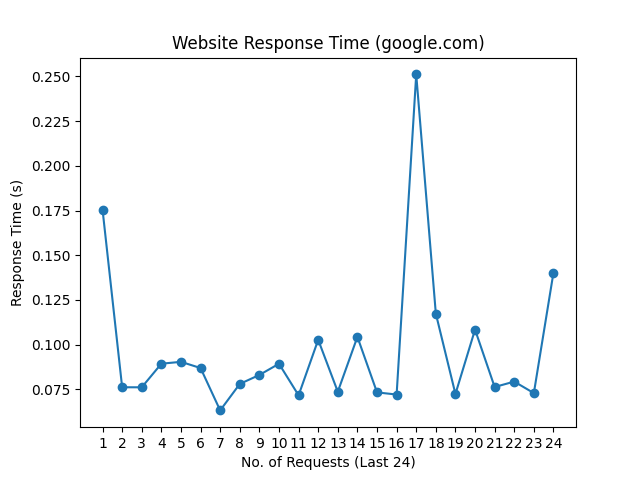
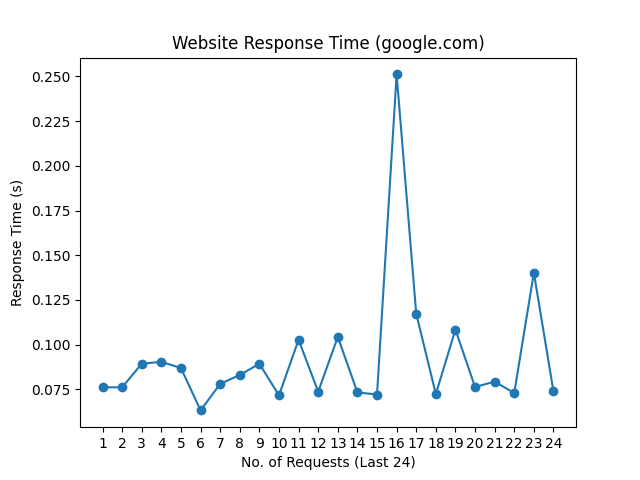
update README.md, history and graph

Changed region(s): [[0.1562, 0.125, 0.875, 0.875], [0.1562, 0.4062, 0.1875, 0.75]]

diff --git a/README.md b/README.md
@@ -1,10 +1,10 @@
 # Web Monitoring
 
-Last Checked: 05/10/2024 08:19
+Last Checked: 06/10/2024 08:21
 
 | Website | Response Time (s) | Status | Avg Uptime (%) |
 |---------|-------------------|--------|----------------|
 | www.thiswebsiteisdown.net | 0 <br> <img src="graph/thiswebsiteisdown.net.png" alt="Graph" width="200" height="200">  | ❌ Down | 0.00 |
-| www.netflix.com | 0.759955 <br> <img src="graph/netflix.com.png" alt="Graph" width="200" height="200">  | ✅ Up | 100.00 |
-| www.google.com | 0.140184 <br> <img src="graph/google.com.png" alt="Graph" width="200" height="200">  | ✅ Up | 100.00 |
-| www.facebook.com | 0.271484 <br> <img src="graph/facebook.com.png" alt="Graph" width="200" height="200">  | ✅ Up | 100.00 |
+| www.netflix.com | 0.786290 <br> <img src="graph/netflix.com.png" alt="Graph" width="200" height="200">  | ✅ Up | 100.00 |
+| www.google.com | 0.073808 <br> <img src="graph/google.com.png" alt="Graph" width="200" height="200">  | ✅ Up | 100.00 |
+| www.facebook.com | 0.386868 <br> <img src="graph/facebook.com.png" alt="Graph" width="200" height="200">  | ✅ Up | 100.00 |
